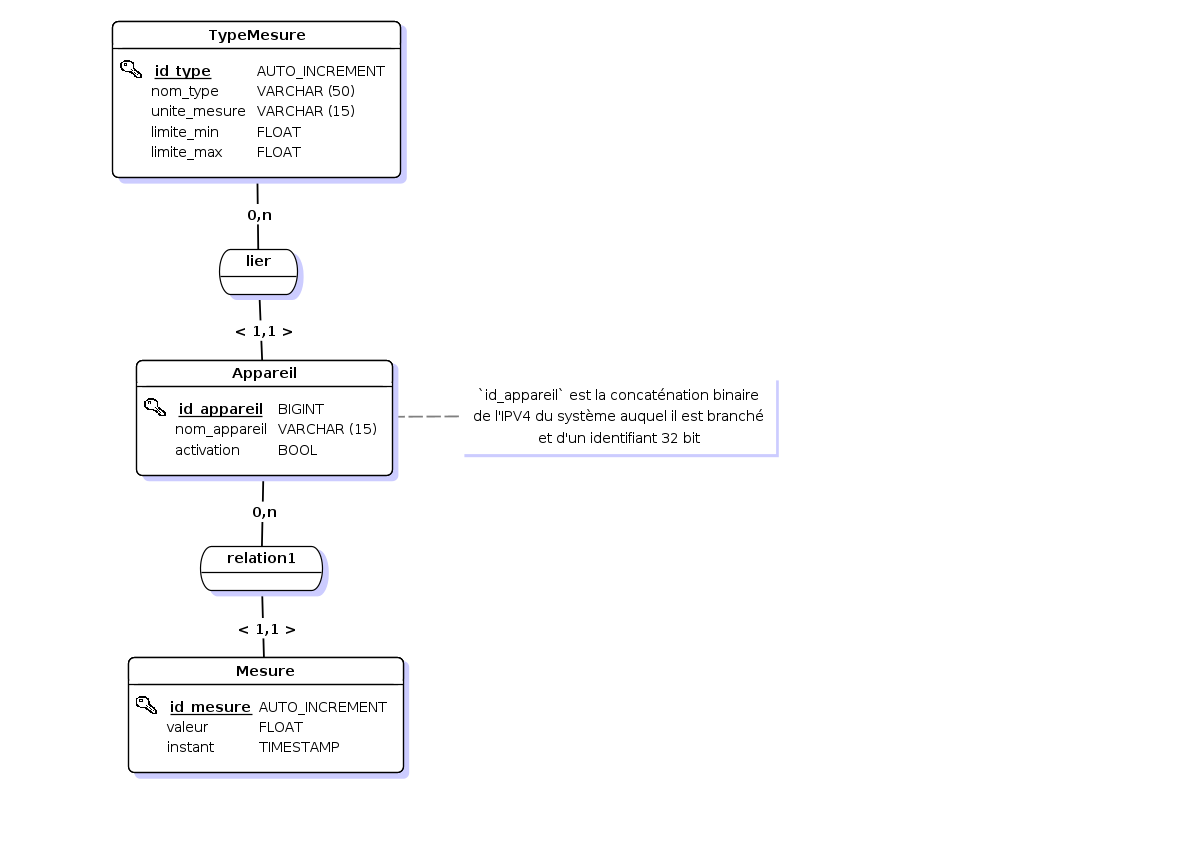
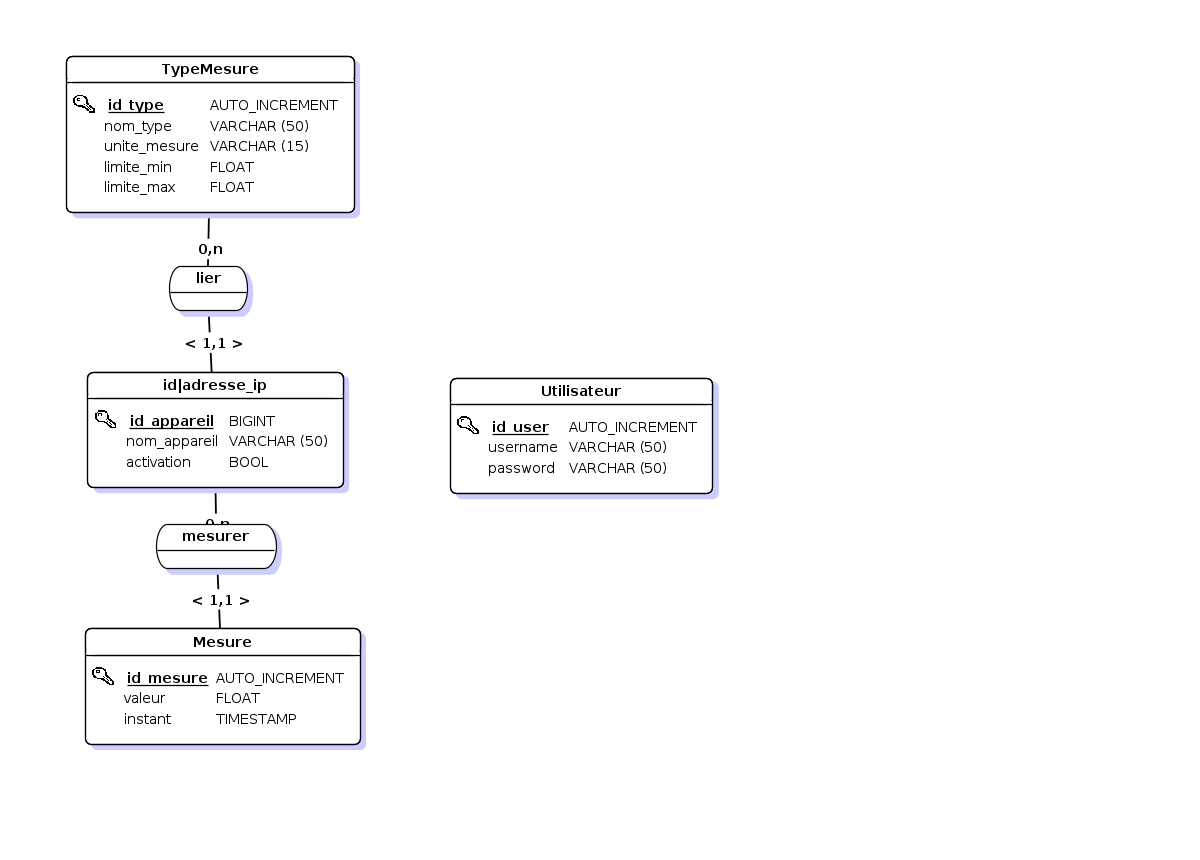
MCD utilisateurs

Changed region(s): [[0.0308, 0.0, 0.3392, 0.5744], [0.0617, 0.6047, 0.3392, 0.907], [0.37, 0.4233, 0.6475, 0.6047]]

diff --git a/README.md b/README.md
@@ -42,6 +42,14 @@ CREATE TABLE `mesure` (
   FOREIGN KEY (`id_appareil`) REFERENCES appareil(`id_appareil`)
 ) ENGINE=InnoDB DEFAULT CHARSET=utf8mb4 COLLATE=utf8mb4_general_ci
 ```
+```sql
+CREATE TABLE `utilisateurs` (
+  `id_user`  int         NOT NULL AUTO_INCREMENT,
+  `username` varchar(50) NOT NULL,
+  `password` varchar(50) NOT NULL,
+  PRIMARY KEY (id_user)
+) ENGINE=InnoDB AUTO_INCREMENT=4 DEFAULT CHARSET=utf8mb4 COLLATE=utf8mb4_general_ci
+```
 
 La seconde étape consiste en l'installation de [.NET SDK 7.0](https://dotnet.microsoft.com/en-us/download/dotnet/7.0). Il faut ensuite s'assurer d'héberger le répertoire afin de pouvoir utiliser l'interface web. Une fois terminée, il ne reste plus qu'à entrer la commande dans le répertoire : `dotnet run`.
 
